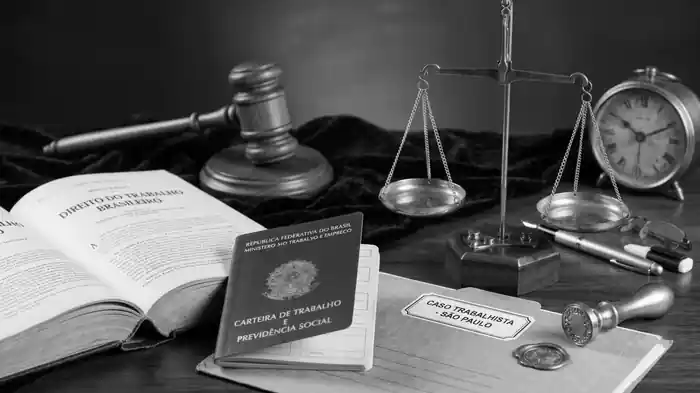
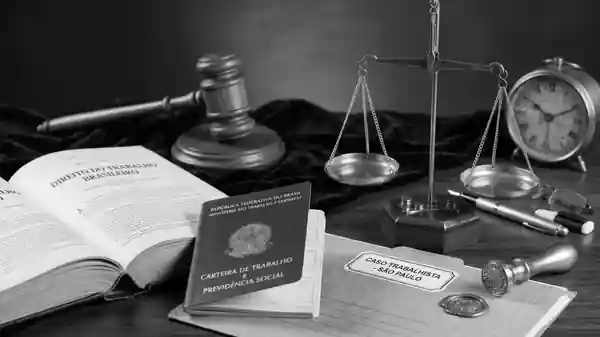
Reduz custo de pintura e de script antes do primeiro desenho (PageSpeed NO_LCP)
- site.js roda após o load (evita reflow forçado antes da 1ª pintura)
- foto do topo com o filtro de cor já aplicado na imagem (sem CSS filter)
- remove backdrop-filter (desfoque) do cabeçalho
- brilho giratório dos botões só inicia 4 s após o load
- texturas de fundo mais leves

Claude-Session: https://claude.ai/code/session_01J6H2qGAi3FCpS2kJ8LWT9p

diff --git a/index.html b/index.html
@@ -12,7 +12,7 @@ w.addEventListener('load',function(){setTimeout(go,10000)})})(window,document,'G
 <!-- End Google Tag Manager -->
 <meta name="viewport" content="width=device-width, initial-scale=1">
 <link rel="preload" as="font" type="font/woff2" href="assets/fonts/lexend-deca-latin.woff2" crossorigin>
-<link rel="preload" as="image" href="assets/img/escritorio-boituva-1228.webp" imagesrcset="assets/img/escritorio-boituva-640.webp 640w, assets/img/escritorio-boituva-960.webp 960w, assets/img/escritorio-boituva-1228.webp 1228w" imagesizes="100vw" fetchpriority="high">
+<link rel="preload" as="image" href="assets/img/hero-1228.webp" imagesrcset="assets/img/hero-640.webp 640w, assets/img/hero-960.webp 960w, assets/img/hero-1228.webp 1228w" imagesizes="100vw" fetchpriority="high">
 <link rel="dns-prefetch" href="https://api.whatsapp.com">
 <title>Advogado em Boituva/SP | Vieira &amp; Marques Advogados</title>
 <link rel="canonical" href="https://boituva.vieiraemarquesadvogados.com/">
@@ -234,6 +234,7 @@ w.addEventListener('load',function(){setTimeout(go,10000)})})(window,document,'G
   .x13:hover { border-color: #FFFFFF !important }
 
   [hidden] { display: none !important; }
+  html:not(.anim-on) a[data-msg], html:not(.anim-on) a[data-msg]::before, html:not(.anim-on) a[data-msg]::after { animation-play-state: paused !important; }
   .anim-off, .anim-off::before, .anim-off::after { animation-play-state: paused !important; }
   .lb-img { width: 100%; max-height: 76vh; object-fit: cover; display: block; }
   .vale-conteudo { transition: opacity .32s ease, transform .32s cubic-bezier(.22,.7,.2,1); }
@@ -258,7 +259,7 @@ height="0" width="0" style="display:none;visibility:hidden"></iframe></noscript>
 
   <a class="x1" href="#conteudo" style="position: absolute; left: -9999px; top: 0; z-index: 200; background: #1EA94F; color: #FFFFFF; padding: 12px 20px; font-size: 15px; font-weight: 600; border-radius: 0 0 4px 0;">Ir para o conteúdo</a>
 
-  <header id="topo" style="position: sticky; top: 0; z-index: 60; background: rgba(11,11,11,0.94); backdrop-filter: blur(10px); border-bottom: 1px solid rgba(255,255,255,0.12);">
+  <header id="topo" style="position: sticky; top: 0; z-index: 60; background: rgba(11,11,11,0.94); border-bottom: 1px solid rgba(255,255,255,0.12);">
     <div style="max-width: 1180px; margin: 0 auto; padding: 13px 24px; display: flex; align-items: center; justify-content: space-between; gap: 20px;">
       <a href="#topo" aria-label="Vieira &amp; Marques — voltar ao topo" style="display: block;">
         <img src="assets/img/logo-vm-360.webp" decoding="async" alt="Vieira &amp; Marques Sociedade de Advogados" class="logo-topo" style="height: 40px; width: auto; display: block; filter: invert(1);" width="360" height="80" srcset="assets/img/logo-vm-360.webp 360w, assets/img/logo-vm-760.webp 760w" sizes="180px">
@@ -270,7 +271,7 @@ height="0" width="0" style="display:none;visibility:hidden"></iframe></noscript>
   <main id="conteudo">
 
   <section class="sec hero-sec" style="position: relative; padding: 108px 24px 124px; background: #0B0B0B; overflow: hidden;">
-    <img src="assets/img/escritorio-boituva-1228.webp" fetchpriority="high" decoding="async" alt="Equipe do escritório Vieira &amp; Marques trabalhando em Boituva/SP" class="hero-bg" style="position: absolute; inset: 0; width: 100%; height: 100%; object-fit: cover; object-position: 60% 40%; filter: grayscale(0.4) contrast(1.05) brightness(0.9); display: block;" width="1228" height="819" srcset="assets/img/escritorio-boituva-640.webp 640w, assets/img/escritorio-boituva-960.webp 960w, assets/img/escritorio-boituva-1228.webp 1228w" sizes="100vw">
+    <img src="assets/img/hero-1228.webp" fetchpriority="high" decoding="async" alt="Equipe do escritório Vieira &amp; Marques trabalhando em Boituva/SP" class="hero-bg" style="position: absolute; inset: 0; width: 100%; height: 100%; object-fit: cover; object-position: 60% 40%; display: block;" width="1228" height="819" srcset="assets/img/hero-640.webp 640w, assets/img/hero-960.webp 960w, assets/img/hero-1228.webp 1228w" sizes="100vw">
     <div class="hero-overlay" style="position: absolute; inset: 0; background: linear-gradient(100deg, #0B0B0B 0%, #0B0B0B 22%, rgba(11,11,11,0.88) 42%, rgba(11,11,11,0.6) 68%, rgba(11,11,11,0.32) 100%); pointer-events: none;"></div>
     <div style="position: absolute; inset: 0; background: linear-gradient(to top, #0B0B0B 0%, transparent 32%); pointer-events: none;"></div>
     <div class="split" style="position: relative; max-width: 1180px; margin: 0 auto; display: grid; grid-template-columns: minmax(0, 660px); gap: 52px; align-items: center;">
@@ -848,7 +849,7 @@ height="0" width="0" style="display:none;visibility:hidden"></iframe></noscript>
     <div class="mapa-wrap" style="position: relative; height: 480px; width: 100%; overflow: hidden;">
       <iframe title="Mapa com a localização do escritório Vieira &amp; Marques em Boituva/SP" src="https://www.google.com/maps?q=-23.2886185,-47.6805114&amp;hl=pt-BR&amp;z=17&amp;output=embed" loading="lazy" referrerpolicy="no-referrer-when-downgrade" style="position: absolute; inset: 0; width: 100%; height: 100%; border: 0; filter: invert(0.92) hue-rotate(180deg) saturate(0.35) contrast(0.92); display: block;"></iframe>
       <div aria-hidden="true" style="position: absolute; inset: 0; background: linear-gradient(90deg, rgba(11,11,11,0.92) 0%, rgba(11,11,11,0.72) 30%, rgba(11,11,11,0) 62%); pointer-events: none;"></div>
-      <div class="mapa-card" style="position: absolute; left: max(24px, calc(50% - 590px)); top: 50%; transform: translateY(-50%); width: min(400px, calc(100% - 48px)); background: rgba(11,11,11,0.96); border: 1px solid rgba(255,255,255,0.16); border-radius: 18px; padding: 32px 30px; backdrop-filter: blur(8px);">
+      <div class="mapa-card" style="position: absolute; left: max(24px, calc(50% - 590px)); top: 50%; transform: translateY(-50%); width: min(400px, calc(100% - 48px)); background: rgba(11,11,11,0.96); border: 1px solid rgba(255,255,255,0.16); border-radius: 18px; padding: 32px 30px;">
         <div style="font-size: 11.5px; font-weight: 600; letter-spacing: 0.13em; text-transform: uppercase; color: #8A8A8A;">Como chegar</div>
         <h2 id="mapa-titulo" class="h2" style="font-weight: 600; font-size: 30px; line-height: 1.18; letter-spacing: -0.02em; margin: 12px 0 0; color: #FFFFFF;">Escritório no centro de <span class="grad-dark">Boituva/SP</span></h2>
         <address style="font-style: normal; font-size: 16px; font-weight: 300; line-height: 1.65; color: #B4B4B4; margin: 18px 0 0;">
@@ -924,6 +925,7 @@ height="0" width="0" style="display:none;visibility:hidden"></iframe></noscript>
 <script>
 (function () {
   "use strict";
+  function init() {
   var GALERIA = [{"src": "assets/img/recepcao-1228.webp", "titulo": "Recepção em Boituva/SP", "legenda": "Rua Benedita Sanson Labronici, 180 — Chácara Labronici"}, {"src": "assets/img/equipe-600.webp", "titulo": "A equipe", "legenda": "Advogados e time de atendimento do escritório"}, {"src": "assets/img/sala-atendimento-1228.webp", "titulo": "Sala de atendimento", "legenda": "Atendimento presencial em Boituva ou reunião online"}, {"src": "assets/img/escritorio-boituva-1228.webp", "titulo": "Como trabalhamos", "legenda": "Cada caso é analisado em conjunto pela equipe"}];
   var VALE = [{"n": "01", "t": "Você recebeu uma carta, notificação ou intimação", "x": "Documento oficial quase sempre vem com prazo curto para resposta. Quem procura orientação na mesma semana tem muito mais caminhos do que quem espera o prazo vencer."}, {"n": "02", "t": "Alguém disse que \"não tem o que fazer\"", "x": "Empresa, banco, INSS ou até um conhecido. Muita gente desiste de um direito real por causa de uma informação errada dada no balcão — vale ouvir quem analisa o caso por inteiro."}, {"n": "03", "t": "O problema já se arrasta há meses", "x": "Cobrança que não para, benefício negado, pensão atrasada, conflito de família sem solução. Quanto mais o tempo passa, mais provas se perdem e mais caro fica resolver."}, {"n": "04", "t": "Vão te pedir para assinar alguma coisa", "x": "Acordo, rescisão, confissão de dívida, partilha. Assinar sem entender é o erro mais comum e o mais difícil de desfazer depois. Uma leitura antes evita anos de processo."}];
   var FRASES = [{"t": "Precisa de um advogado em Boituva?", "s": "Atendimento presencial com hora marcada, no centro da cidade."}, {"t": "Recebeu uma notificação?", "s": "Documento oficial tem prazo. Marque um horário e traga para análise."}, {"t": "INSS negou seu benefício?", "s": "Trazendo suas cartas e exames, a gente avalia o caso pessoalmente."}, {"t": "Vão te pedir para assinar algo?", "s": "Antes de assinar, vale uma leitura com advogado. Agende um horário."}];
@@ -1132,6 +1134,11 @@ height="0" width="0" style="display:none;visibility:hidden"></iframe></noscript>
     window.addEventListener("resize", function () { clearTimeout(rz); rz = setTimeout(montarDots, 150); });
     montarDots(); agenda();
   }
+
+  // brilho giratório dos botões só começa depois da 1ª pintura/medição
+  setTimeout(function () { document.documentElement.classList.add("anim-on"); }, 4000);
+  }
+  if (document.readyState === "complete") init(); else window.addEventListener("load", init);
 })();
 </script>
 </body>

diff --git a/tools/site.js b/tools/site.js
@@ -1,5 +1,6 @@
 (function () {
   "use strict";
+  function init() {
   var GALERIA = __GALERIA__;
   var VALE = __VALE__;
   var FRASES = __FRASES__;
@@ -208,4 +209,9 @@
     window.addEventListener("resize", function () { clearTimeout(rz); rz = setTimeout(montarDots, 150); });
     montarDots(); agenda();
   }
+
+  // brilho giratório dos botões só começa depois da 1ª pintura/medição
+  setTimeout(function () { document.documentElement.classList.add("anim-on"); }, 4000);
+  }
+  if (document.readyState === "complete") init(); else window.addEventListener("load", init);
 })();

diff --git a/tools/build_static.py b/tools/build_static.py
@@ -86,6 +86,7 @@ FONT_FACE = """@font-face { font-family: 'Lexend Fallback'; src: local('Arial'),
 
 EXTRA_CSS = """
   [hidden] { display: none !important; }
+  html:not(.anim-on) a[data-msg], html:not(.anim-on) a[data-msg]::before, html:not(.anim-on) a[data-msg]::after { animation-play-state: paused !important; }
   .anim-off, .anim-off::before, .anim-off::after { animation-play-state: paused !important; }
   .lb-img { width: 100%; max-height: 76vh; object-fit: cover; display: block; }
   .vale-conteudo { transition: opacity .32s ease, transform .32s cubic-bezier(.22,.7,.2,1); }
@@ -201,7 +202,7 @@ def main():
     head = head.replace(
         '<link rel="preload" as="image" href="uploads/16.jpg" fetchpriority="high">',
         '<link rel="preload" as="font" type="font/woff2" href="assets/fonts/lexend-deca-latin.woff2" crossorigin>\n'
-        '<link rel="preload" as="image" href="assets/img/escritorio-boituva-1228.webp" imagesrcset="assets/img/escritorio-boituva-640.webp 640w, assets/img/escritorio-boituva-960.webp 960w, assets/img/escritorio-boituva-1228.webp 1228w" imagesizes="100vw" fetchpriority="high">',
+        '<link rel="preload" as="image" href="assets/img/hero-1228.webp" imagesrcset="assets/img/hero-640.webp 640w, assets/img/hero-960.webp 960w, assets/img/hero-1228.webp 1228w" imagesizes="100vw" fetchpriority="high">',
     )
     # CSS: fonte local, hero sem opacity 0 (não atrasa o LCP), contraste
     head = head.replace("<style>\n", "<style>\n  " + FONT_FACE + "\n", 1)
@@ -296,6 +297,15 @@ def main():
     body = body.replace("font-family: 'Lexend Deca', Helvetica, sans-serif;", "font-family: 'Lexend Deca', 'Lexend Fallback', Helvetica, sans-serif;")
     body, hover_css = converter_hover(body)
     body = trocar_imagens(body)
+
+    # hero: usa a versão com o filtro de cor já aplicado (sem CSS filter em imagem de tela cheia)
+    def hero_sub(m):
+        t = m.group(0)
+        t = t.replace("assets/img/escritorio-boituva-1228.webp", "assets/img/hero-1228.webp")
+        t = re.sub(r'srcset="[^"]*"', 'srcset="assets/img/hero-640.webp 640w, assets/img/hero-960.webp 960w, assets/img/hero-1228.webp 1228w"', t)
+        return t.replace(" filter: grayscale(0.4) contrast(1.05) brightness(0.9);", "")
+    body = re.sub(r'<img[^>]*class="hero-bg"[^>]*>', hero_sub, body)
+    body = re.sub(r" backdrop-filter: blur\(\d+px\);| -webkit-backdrop-filter: blur\(\d+px\);", "", body)
 
     # ajustes de desempenho/acessibilidade: só a imagem do hero tem prioridade alta
     body = re.sub(r'(<img src="assets/img/logo-vm-360\.webp") fetchpriority="high" decoding="async"(?=[^>]*max-width: 380px)', r'\1 loading="lazy" decoding="async"', body)
